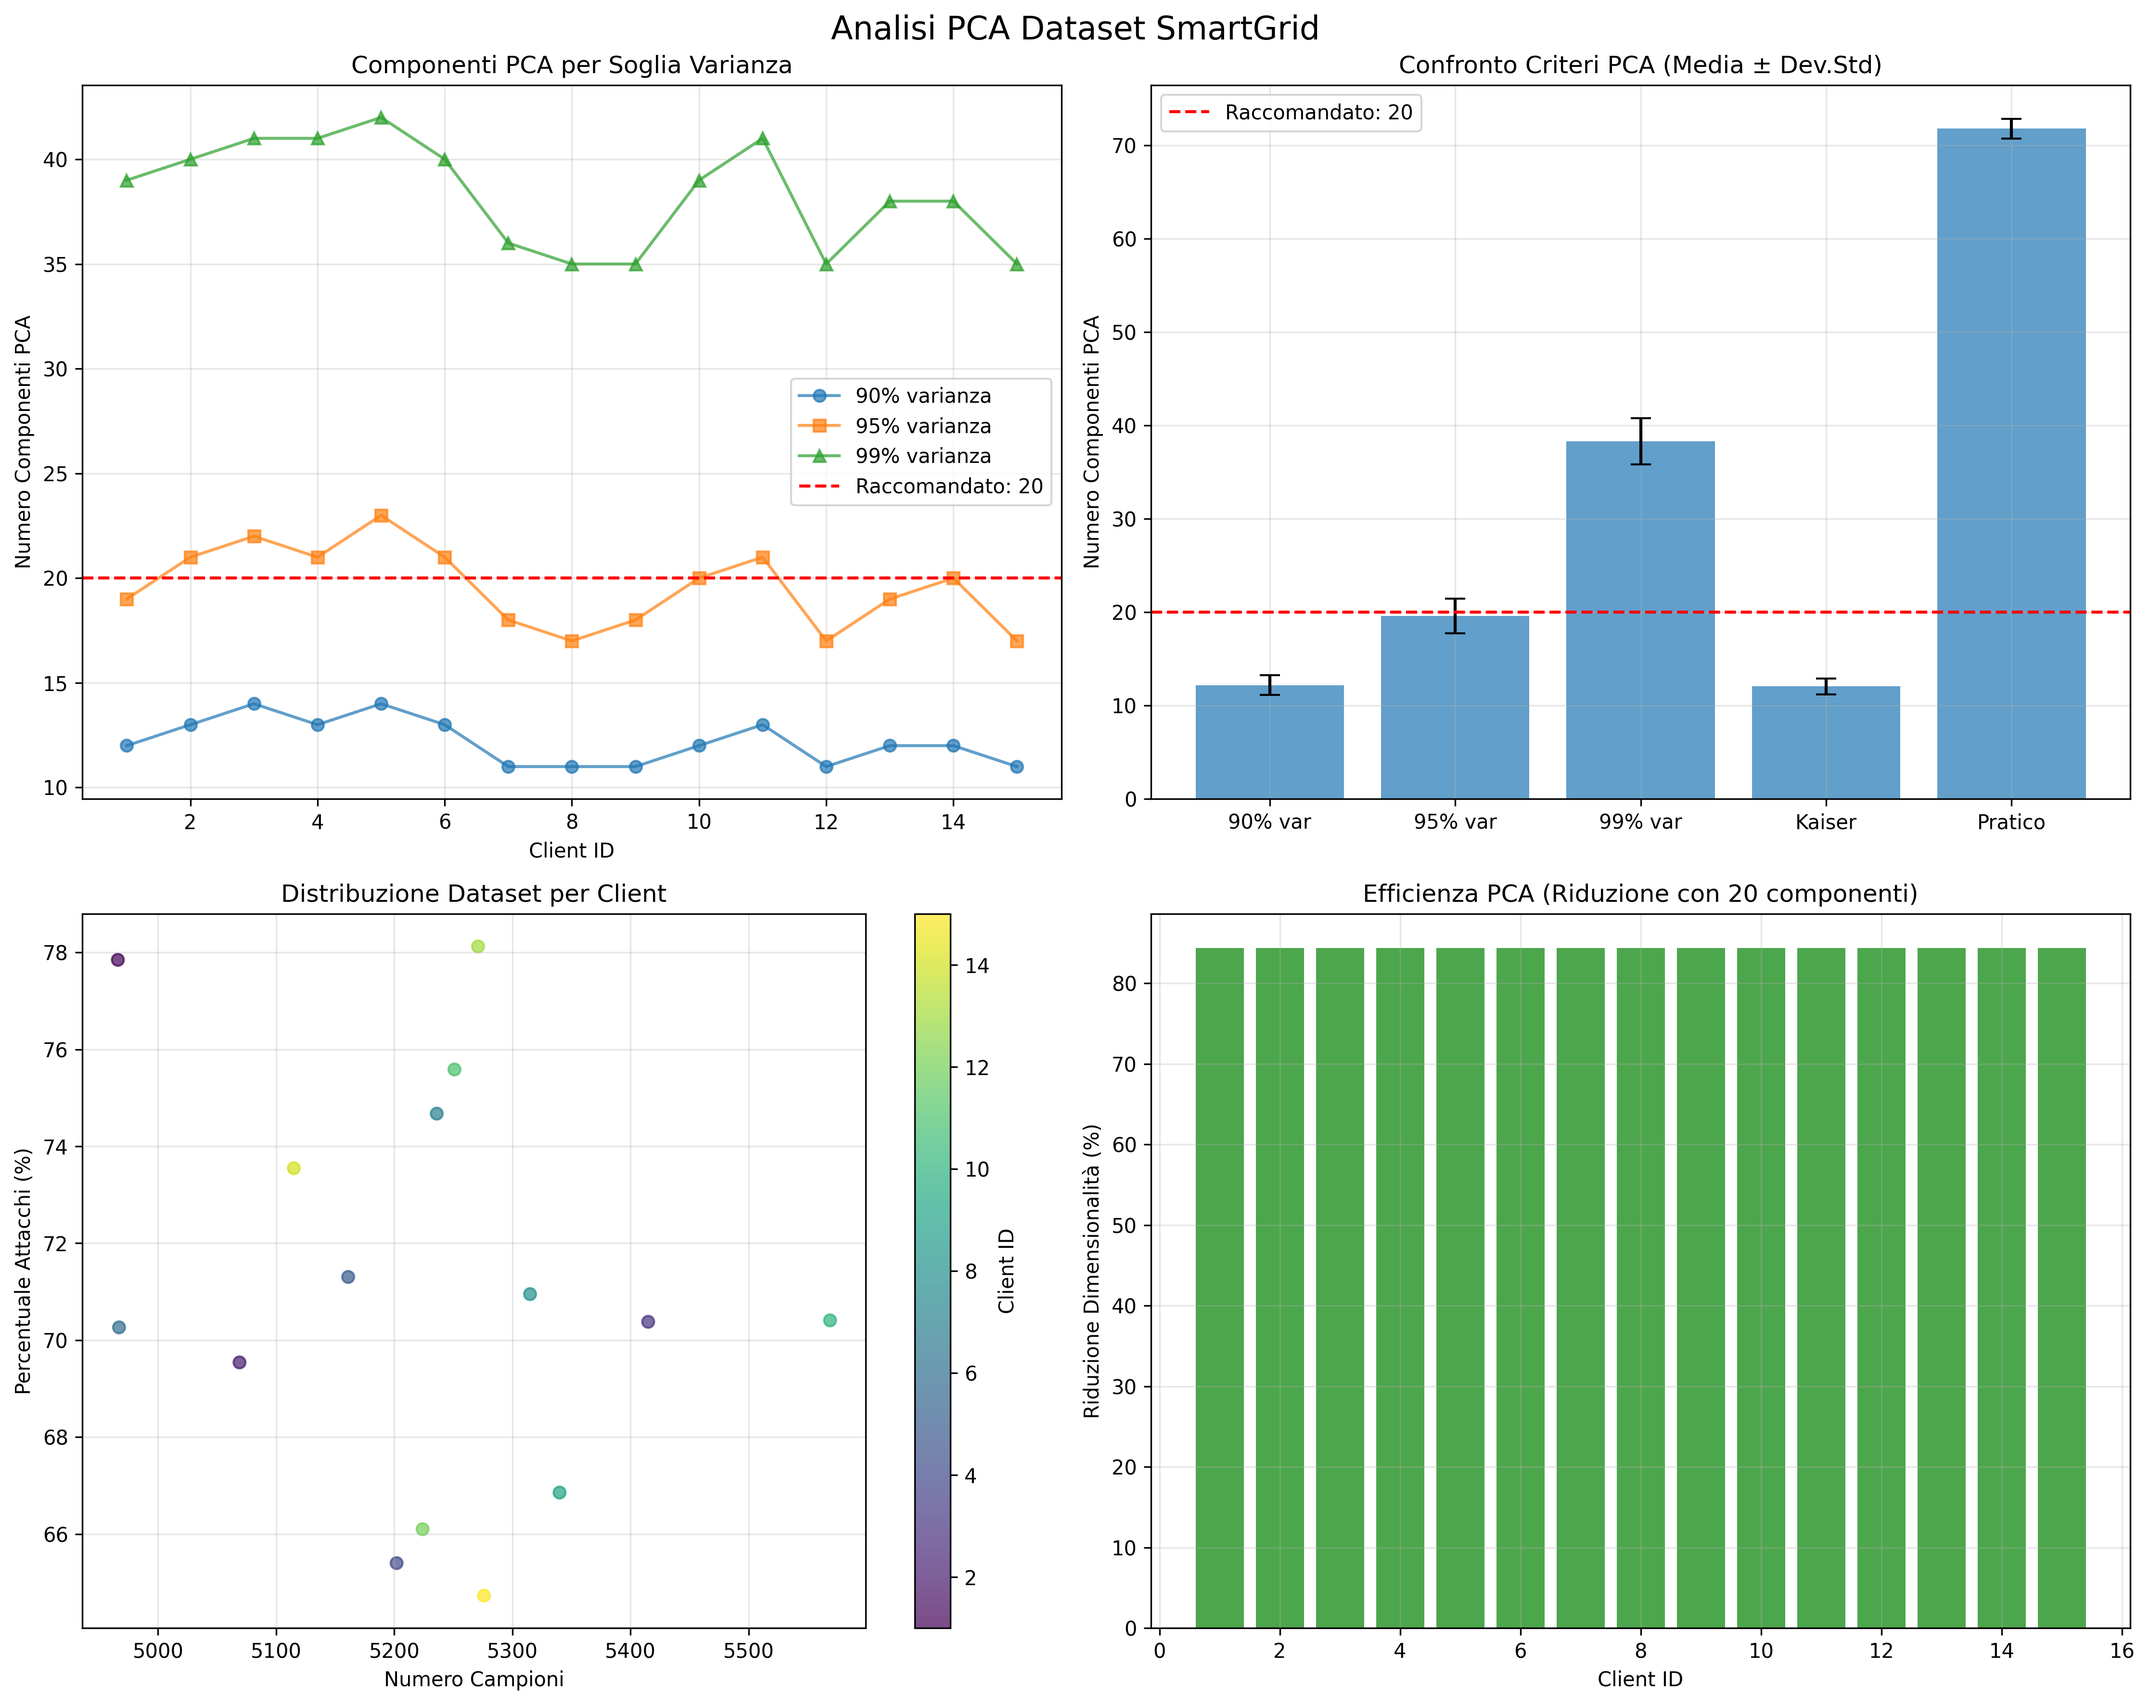
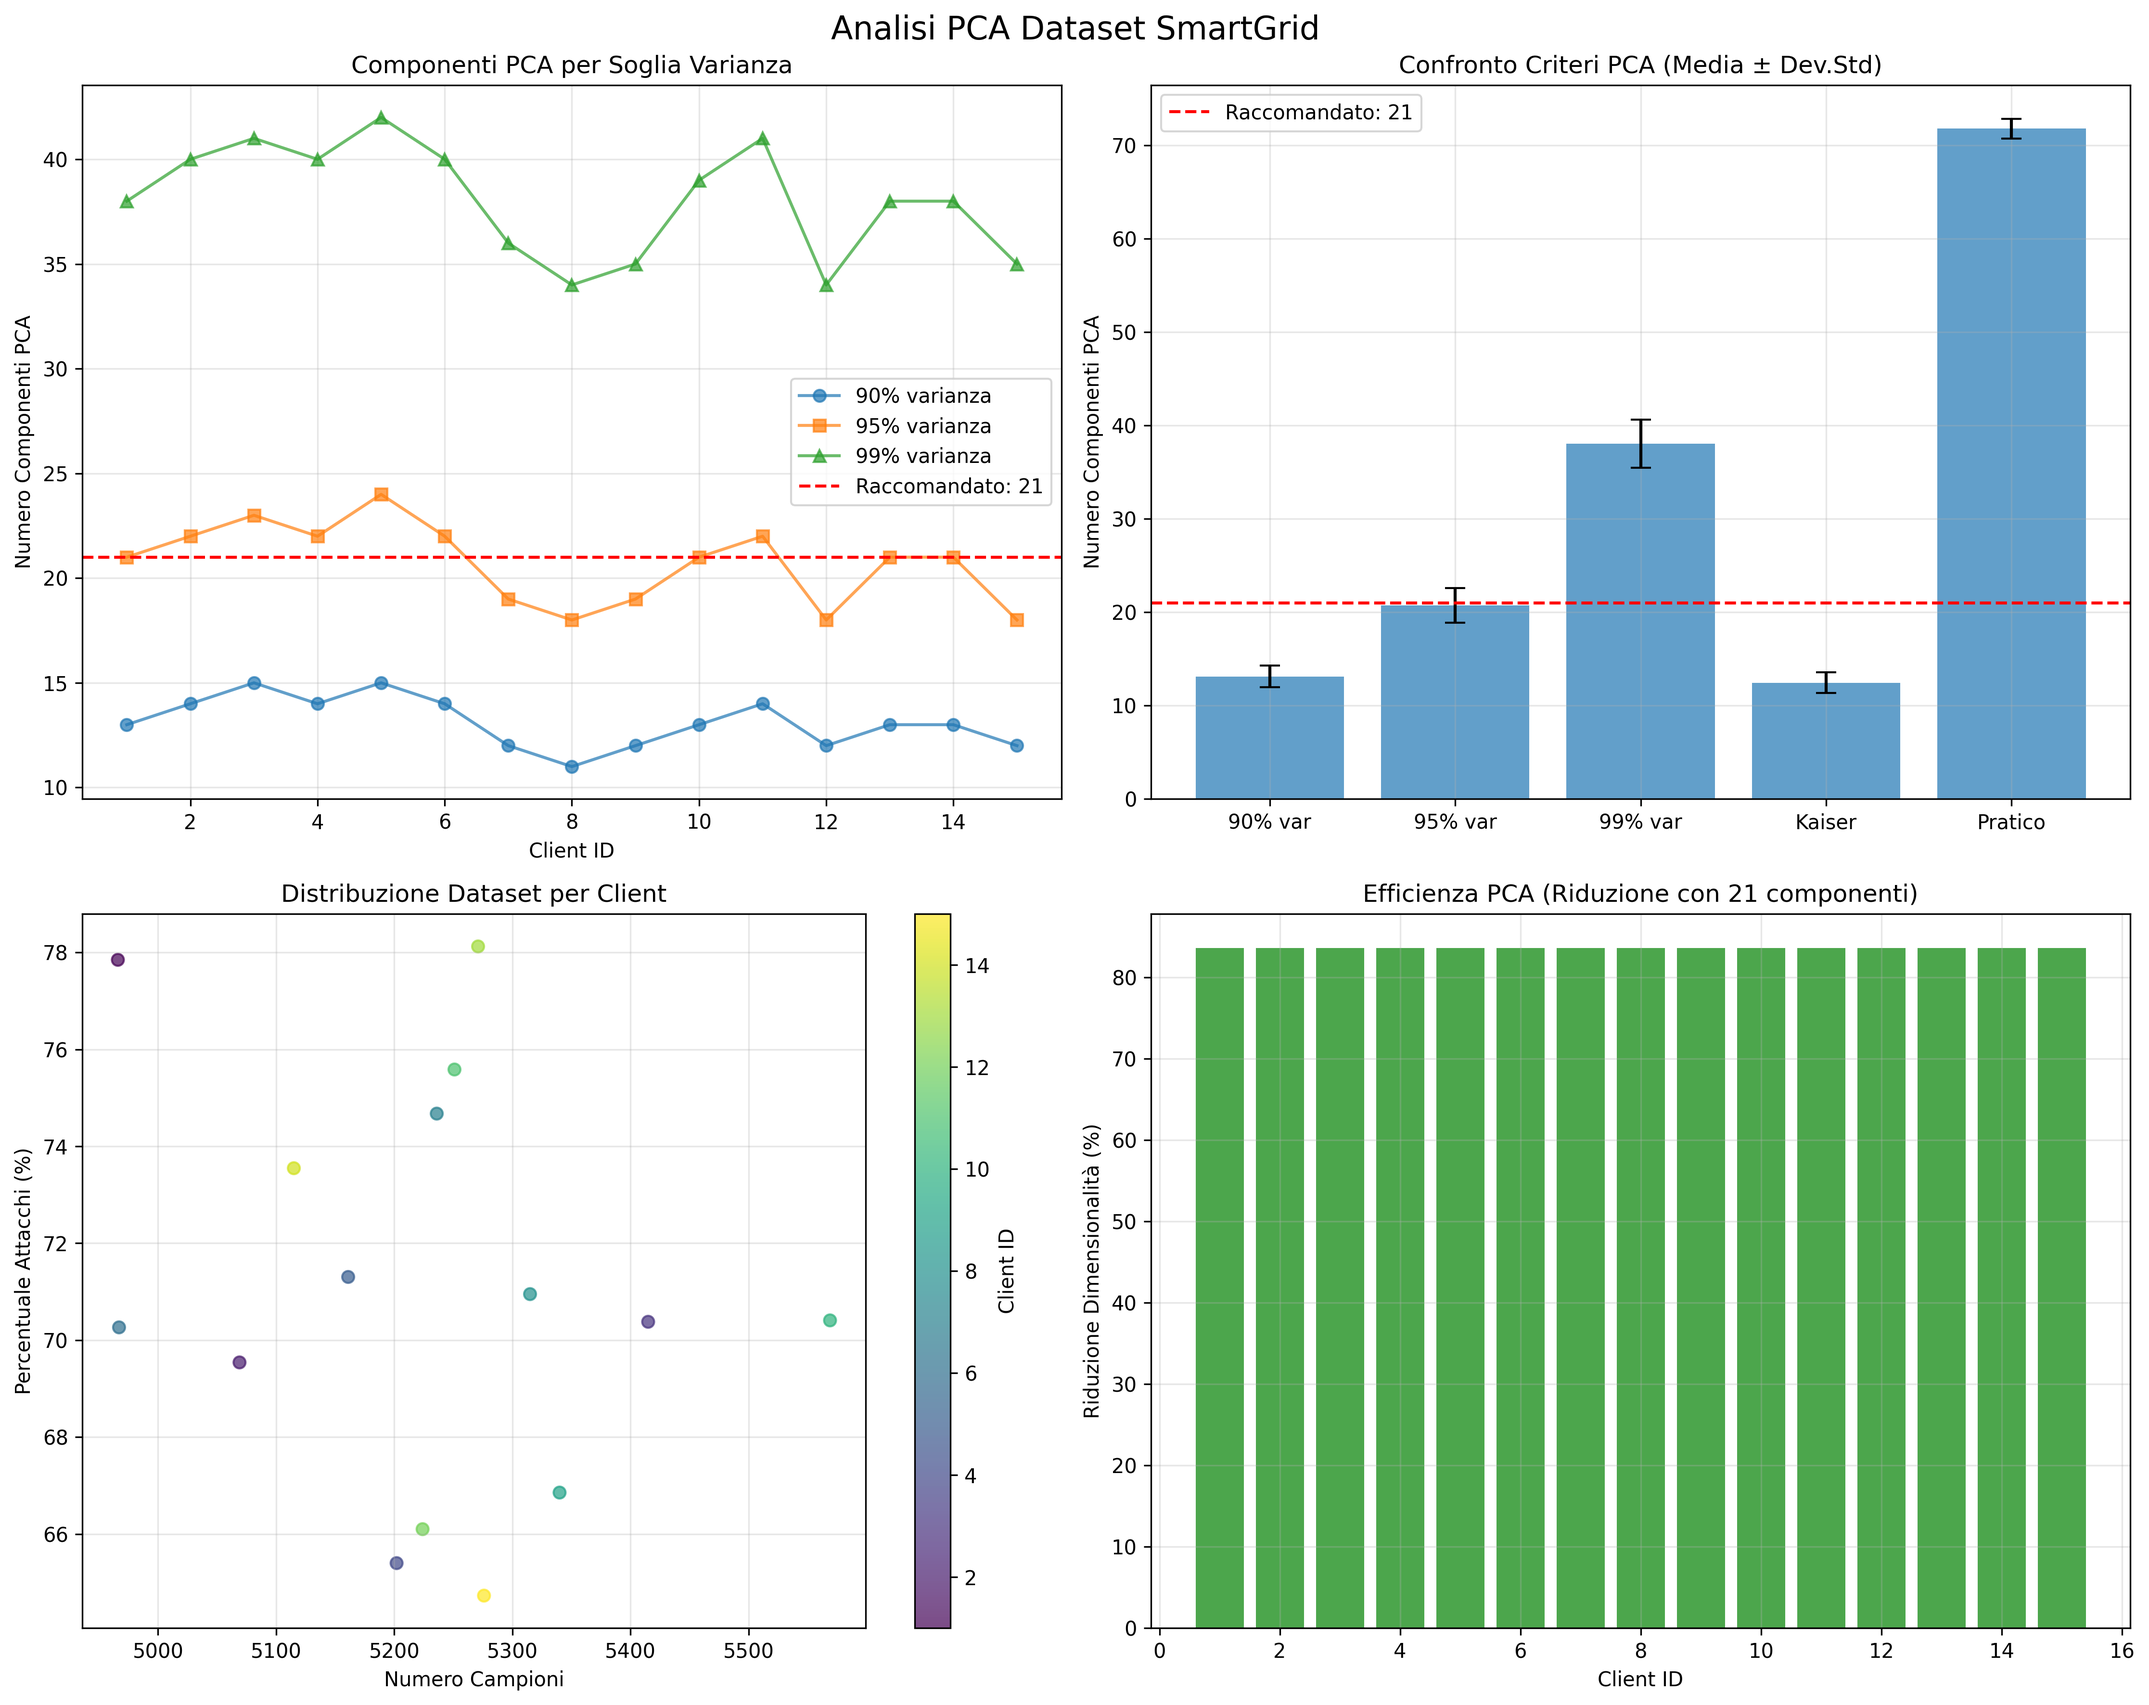
aggiunta verifica varianza post PCA

diff --git a/scripts/analyze_pca_components.py b/scripts/analyze_pca_components.py
@@ -56,10 +56,36 @@ def clean_data_for_pca_analysis(X):
     X_array = np.where(np.isinf(X_array), np.nan, X_array)
     return X_array
 
+def varianza_spiegata_per_classe(pca, X_scaled, y):
+    """
+    Calcola la varianza spiegata dalla proiezione PCA separatamente su attacchi e naturali.
+    La varianza spiegata è la varianza totale delle proiezioni rispetto al totale della classe.
+    """
+    results = {}
+    for label, name in [(1, "attack"), (0, "natural")]:
+        mask = (y == label)
+        if np.sum(mask) > 1:
+            projected = pca.transform(X_scaled[mask])
+            var_proj = np.var(projected, axis=0, ddof=1)
+            total_var = np.sum(var_proj)
+            results[name] = {
+                "samples": np.sum(mask),
+                "var_proj": var_proj,
+                "total_var_proj": total_var
+            }
+        else:
+            results[name] = {
+                "samples": np.sum(mask),
+                "var_proj": None,
+                "total_var_proj": None
+            }
+    return results
+
 def analyze_single_client_pca(client_id, data_dir):
     """
     Analizza la PCA per un singolo client.
     Preprocessing: pulizia inf/NaN, clipping IQR, imputazione mediana, rimozione quasi-costanti, scaling.
+    Calcola anche la varianza post-PCA separata per attacchi e naturali.
     """
     file_path = os.path.join(data_dir, f"data{client_id}.csv")
     if not os.path.exists(file_path):
@@ -106,6 +132,11 @@ def analyze_single_client_pca(client_id, data_dir):
         n_samples = len(X_scaled)
         max_practical = min(int(np.sqrt(n_samples)), int(n_samples * 0.5))
 
+        # Analisi varianza post-PCA per classi
+        varianza_classi = varianza_spiegata_per_classe(pca_full, X_scaled, y)
+        attack_var = varianza_classi["attack"]["total_var_proj"]
+        natural_var = varianza_classi["natural"]["total_var_proj"]
+
         results = {
             'client_id': client_id,
             'total_samples': len(df),
@@ -121,7 +152,11 @@ def analyze_single_client_pca(client_id, data_dir):
             'variance_explained_99': cumulative_variance[min(n_components_99-1, len(cumulative_variance)-1)] if n_components_99 > 0 else 0,
             'explained_variance_ratio': explained_variance_ratio,
             'cumulative_variance': cumulative_variance,
-            'eigenvalues': eigenvalues
+            'eigenvalues': eigenvalues,
+            'attack_var_post_pca': attack_var,
+            'natural_var_post_pca': natural_var,
+            'attack_samples': varianza_classi["attack"]["samples"],
+            'natural_samples': varianza_classi["natural"]["samples"]
         }
 
         print(f"  Componenti per 90% varianza: {results['n_components_90']}")
@@ -129,6 +164,8 @@ def analyze_single_client_pca(client_id, data_dir):
         print(f"  Componenti per 99% varianza: {results['n_components_99']}")
         print(f"  Kaiser criterion (λ>1): {results['n_components_kaiser']}")
         print(f"  Limite pratico: {results['max_practical']}")
+        print(f"  Varianza totale post-PCA (attacchi): {attack_var:.2f} su {results['attack_samples']} campioni")
+        print(f"  Varianza totale post-PCA (naturali): {natural_var:.2f} su {results['natural_samples']} campioni")
 
         return results
 

diff --git a/federated/SmartGrid/client.py b/federated/SmartGrid/client.py
@@ -17,7 +17,7 @@ from sklearn.utils.class_weight import compute_class_weight
 from sklearn.metrics import f1_score, roc_auc_score, balanced_accuracy_score
 
 # CONFIGURAZIONE PCA STATICA FISSA
-PCA_COMPONENTS = 20  # NUMERO FISSO - garantisce compatibilità automatica
+PCA_COMPONENTS = 21  # NUMERO FISSO - garantisce compatibilità automatica
 PCA_RANDOM_STATE = 42
 
 # CONFIGURAZIONE MODELLO DNN - PARAMETRI OTTIMIZZABILI CON OPTUNA

diff --git a/federated/SmartGrid/server.py b/federated/SmartGrid/server.py
@@ -17,7 +17,7 @@ from sklearn.metrics import f1_score, roc_auc_score, balanced_accuracy_score
 import os
 
 # CONFIGURAZIONE PCA STATICA FISSA (identica ai client)
-PCA_COMPONENTS = 20  # NUMERO FISSO - garantisce compatibilità automatica
+PCA_COMPONENTS = 21  # NUMERO FISSO - garantisce compatibilità automatica
 PCA_RANDOM_STATE = 42
 
 # CONFIGURAZIONE MODELLO DNN - IDENTICA AI CLIENT (ottimizzabile con Optuna)

diff --git a/scripts/optuna_optimizer.py b/scripts/optuna_optimizer.py
@@ -24,7 +24,7 @@ import sys
 from datetime import datetime
 
 # Configurazioni fisse (identiche al sistema federato)
-PCA_COMPONENTS = 20
+PCA_COMPONENTS = 21
 PCA_RANDOM_STATE = 42
 
 warnings.filterwarnings('ignore')
